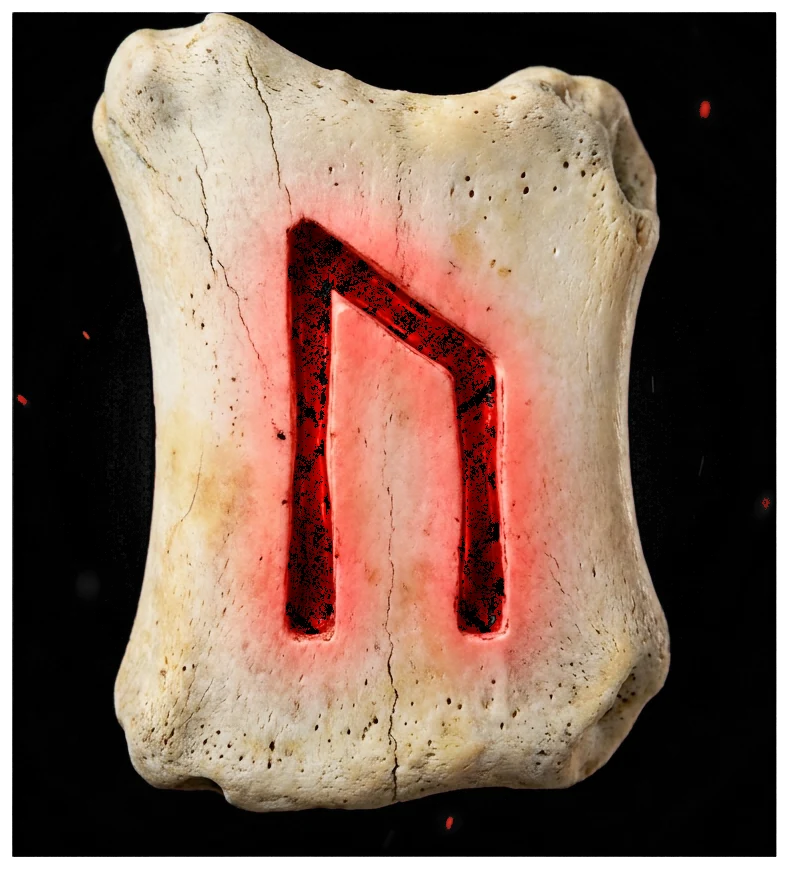
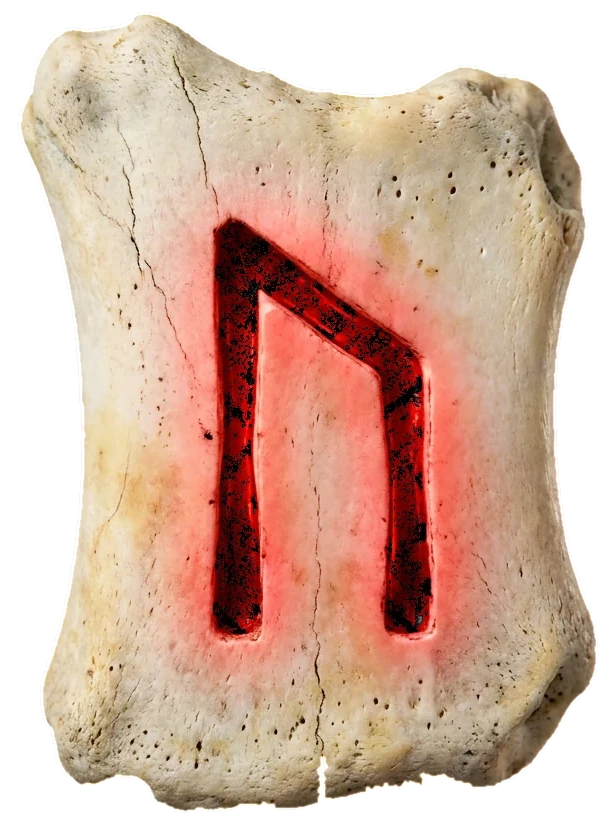
Uruz torna una pietra: chiave di tinta dal bordo, mai distanza RGB
Voce 5 dell'ordine 2161. Misura prima: 94,2 per cento di pixel opachi su
fronte e retro (789x869), contro la mediana 71,4 delle altre ventitre.
Misura dopo: 71,9 su fronte (616x831), retro e miniatura, sulla mediana.

Il metodo vive in tool/pulisci_uruz.py, una porta, coi suoi perche':
allagamento dal bordo sulla tinta del fondo (quasi nero o scintilla
rossa), cosi' il solco rosso interno, irraggiungibile dal bordo, resta;
resta solo la componente opaca piu' grande (le scintille isolate
cadono); pinhole sotto i 400 pixel richiusi, vuoti veri lasciati;
despill dividendo il colore dei semitrasparenti per l'alpha, perche' il
fondale era nero, senza toccare i pixel pieni ne' la venatura; riquadro
stretto alla pietra col 2 per cento di margine, perche' la quota di
opachi si misura sul riquadro e Uruz era stata consegnata con l'aria
attorno. Verificata a occhio su fondo chiaro E su scacchiera.

Il retro rigenerato DALLA pietra pulita con tool/rune_vergini.py 02, la
porta che gia' esisteva: eredita il riquadro stretto e la trasparenza.
La miniatura con le misure della filiera vera (500, qualita' 82).

Il lucchetto di CI, stato_asset_test.dart nel verde, conta file e
percorsi: la sostituzione in loco non lo apre, quindi non c'e' stato
nessuno sblocco e il lucchetto non ha mai smesso di essere chiuso. Ma
contava i file e non i byte, ed e' il buco da cui Uruz e' passata: la
prova nuova test/le_pietre_sono_scontornate_test.dart e' il lucchetto
[…]

diff --git a/test/le_pietre_sono_scontornate_test.dart b/test/le_pietre_sono_scontornate_test.dart
@@ -1,0 +1,104 @@
+import 'dart:io';
+import 'dart:ui' as ui;
+
+import 'package:flutter_test/flutter_test.dart';
+
+/// OGNI PIETRA E' SCONTORNATA DAVVERO, fronte e retro. Ordine 2161, voce 5.
+///
+/// La regressione: Uruz e' arrivata su un fondale nero pieno, 94,2 per cento
+/// di pixel opachi contro la mediana di 71,4 delle altre ventitre, e nessuna
+/// prova e' caduta. Una pietra quadrata in mezzo a pietre scontornate si vede
+/// a occhio, ma l'occhio non e' una guardia: questa prova misura TUTTE le
+/// pietre, cosi' la prossima runa consegnata su un fondale fa cadere il verde
+/// prima di arrivare a video.
+///
+/// Due misure, ciascuna col suo perche':
+/// - il PERIMETRO deve essere quasi tutto trasparente: una pietra vive in
+///   mezzo alla sua aria, un asset squadrato tocca i bordi con pixel pieni;
+/// - la QUOTA DI PIXEL OPACHI di ogni pietra deve stare vicino alla mediana
+///   del mazzo: e' la misura dell'ordine, e la banda dichiarata tiene conto
+///   che le pietre hanno forme diverse (dal 62 all'82 per cento oggi).
+void main() {
+  /// Oltre questa distanza dalla mediana una pietra non e' piu' una forma
+  /// diversa: e' un fondale. Uruz squadrata stava a +22,8 dalla mediana.
+  const bandaDallaMediana = 14.0;
+
+  /// Sul perimetro si tollera solo il rumore di compressione: mezzo punto
+  /// percentuale. Uruz squadrata aveva il perimetro pieno.
+  const perimetroOpacoMassimo = 0.5;
+
+  Future<Map<String, List<double>>> misura(Directory dir) async {
+    final misure = <String, List<double>>{};
+    for (final f in dir.listSync().whereType<File>().toList()
+      ..sort((a, b) => a.path.compareTo(b.path))) {
+      if (!f.path.endsWith('.webp')) continue;
+      final codec = await ui.instantiateImageCodec(f.readAsBytesSync());
+      final img = (await codec.getNextFrame()).image;
+      final dati = (await img.toByteData(format: ui.ImageByteFormat.rawRgba))!;
+      final byte = dati.buffer.asUint8List();
+      final w = img.width, h = img.height;
+      var opachi = 0;
+      var perimetroOpachi = 0;
+      var perimetro = 0;
+      for (var y = 0; y < h; y++) {
+        for (var x = 0; x < w; x++) {
+          final a = byte[(y * w + x) * 4 + 3];
+          final pieno = a >= 128;
+          if (pieno) opachi++;
+          if (y == 0 || y == h - 1 || x == 0 || x == w - 1) {
+            perimetro++;
+            if (pieno) perimetroOpachi++;
+          }
+        }
+      }
+      img.dispose();
+      misure[f.uri.pathSegments.last] = [
+        opachi * 100 / (w * h),
+        perimetroOpachi * 100 / perimetro,
+      ];
+    }
+    return misure;
+  }
+
+  double mediana(List<double> valori) {
+    final v = [...valori]..sort();
+    return v.length.isOdd
+        ? v[v.length ~/ 2]
+        : (v[v.length ~/ 2 - 1] + v[v.length ~/ 2]) / 2;
+  }
+
+  for (final cartella in const [
+    'assets/img/rune_bone',
+    'assets/img/rune_bone_vergine',
+    'assets/img_thumb/rune_bone',
+  ]) {
+    testWidgets('in $cartella nessuna pietra e\' un fondale', (tester) async {
+      await tester.runAsync(() async {
+        final misure = await misura(Directory(cartella));
+        expect(misure.length, 24,
+            reason: 'in $cartella le pietre non sono ventiquattro');
+        final colpe = <String>[];
+        misure.forEach((nome, m) {
+          // La mediana delle ALTRE: la pietra sotto esame non vota su
+          // se stessa, altrimenti un mazzo mezzo squadrato si assolverebbe.
+          final altre = misure.entries
+              .where((e) => e.key != nome)
+              .map((e) => e.value[0])
+              .toList();
+          final med = mediana(altre);
+          if ((m[0] - med).abs() > bandaDallaMediana) {
+            colpe.add('$nome: opachi ${m[0].toStringAsFixed(1)}% contro la '
+                'mediana ${med.toStringAsFixed(1)} delle altre, oltre la '
+                'banda di $bandaDallaMediana');
+          }
+          if (m[1] > perimetroOpacoMassimo) {
+            colpe.add('$nome: perimetro opaco al '
+                '${m[1].toStringAsFixed(1)}%, una pietra scontornata '
+                'non tocca i bordi del suo riquadro');
+          }
+        });
+        expect(colpe, isEmpty, reason: colpe.join('\n'));
+      });
+    });
+  }
+}

diff --git a/tool/pulisci_uruz.py b/tool/pulisci_uruz.py
@@ -1,0 +1,198 @@
+# -*- coding: utf-8 -*-
+"""URUZ TORNA UNA PIETRA, non un quadrato nero. Ordine 2161, voce 5.
+
+**Il difetto.** Uruz e' stata consegnata su un fondale nero pieno, con
+scintille rosse sparse: 94,2 per cento di pixel opachi contro la mediana di
+71,4 delle altre ventitre. A video e' un quadrato coi bordi neri in mezzo a
+pietre scontornate.
+
+**Il metodo, a chiave di tinta e MAI per distanza RGB.** La distanza RGB da un
+campione mangia tutto cio' che somiglia al campione ovunque stia, e qui
+l'incisione rossa in ombra somiglia al fondo nero: sparirebbe il solco. La
+chiave di tinta invece riconosce il fondo per la sua natura (quasi nero, o
+scintilla rossa su nero) e lo raggiunge SOLO dal bordo, per allagamento: cio'
+che sta dentro la pietra, solco compreso, non e' raggiungibile dal bordo e
+resta intatto.
+
+I passi, ciascuno col suo perche':
+1. allagamento dal bordo sui pixel del fondo (tinta quasi nera V<70, oppure
+   scintilla rossa R dominante): via l'alpha;
+2. resta solo la componente opaca PIU' GRANDE: le scintille circondate dal
+   nero non sono raggiunte a tinta ma restano isole, e un'isola non e' pietra;
+3. pinhole piccoli (sotto 400 pixel) richiusi col pixel originale: sono buchi
+   del keying, non vuoti veri; i vuoti veri, piu' grandi, restano trasparenti;
+4. despill sul bordo: un'erosione di un pixel e una sfumatura, poi il colore
+   dei pixel semitrasparenti si divide per l'alpha (il fondale era nero,
+   quindi il colore osservato e' il colore vero moltiplicato per l'alpha):
+   cosi' il filo nero residuo se ne va SENZA toccare i pixel pieni, cioe'
+   senza mangiare la venatura;
+5. verifica A OCCHIO su fondo chiaro E su scacchiera, mai solo sul nero: i
+   compositi si scrivono nello scratchpad e vanno guardati.
+
+Il retro NON si tocca qui: si rigenera con `tool/rune_vergini.py 02` DALLA
+pietra pulita, perche' il retro nasce dalla runa incisa e ne eredita i
+difetti. La miniatura si rigenera con le stesse misure di `converti_webp.py`
+(lato lungo 500, qualita' 82).
+
+Uso: python tool/pulisci_uruz.py
+"""
+
+import os
+import sys
+from collections import deque
+
+import numpy as np
+from PIL import Image, ImageFilter
+
+BASE = os.path.dirname(os.path.dirname(os.path.abspath(__file__)))
+FRONTE = os.path.join(BASE, 'assets', 'img', 'rune_bone',
+                      'rune_bone_02_uruz_v1.webp')
+THUMB = os.path.join(BASE, 'assets', 'img_thumb', 'rune_bone',
+                     'rune_bone_02_uruz_v1.webp')
+# Le stesse misure della filiera vera, tool/converti_webp.py: cambiarle qui
+# farebbe di Uruz una miniatura d'un altro mazzo.
+QUALITY = 88
+THUMB_LONG = 500
+THUMB_QUALITY = 82
+# Sotto questa superficie un buco e' un pinhole del keying e un'isola e' una
+# scintilla: 400 pixel su un'immagine di 685 mila sono lo 0,06 per cento.
+BRICIOLA = 400
+
+
+def componenti(maschera):
+    """Le componenti connesse di una maschera booleana, per allagamento."""
+    h, w = maschera.shape
+    viste = np.zeros((h, w), dtype=bool)
+    trovate = []
+    for y0 in range(h):
+        for x0 in range(w):
+            if not maschera[y0, x0] or viste[y0, x0]:
+                continue
+            coda = deque([(y0, x0)])
+            viste[y0, x0] = True
+            punti = []
+            while coda:
+                y, x = coda.popleft()
+                punti.append((y, x))
+                for ny, nx in ((y-1, x), (y+1, x), (y, x-1), (y, x+1)):
+                    if 0 <= ny < h and 0 <= nx < w and \
+                            maschera[ny, nx] and not viste[ny, nx]:
+                        viste[ny, nx] = True
+                        coda.append((ny, nx))
+            trovate.append(punti)
+    return trovate
+
+
+def main():
+    im = Image.open(FRONTE).convert('RGBA')
+    arr = np.array(im)
+    h, w = arr.shape[:2]
+    r = arr[..., 0].astype(int)
+    g = arr[..., 1].astype(int)
+    b = arr[..., 2].astype(int)
+    v = np.maximum(np.maximum(r, g), b)
+
+    # LA TINTA DEL FONDO: quasi nero, oppure scintilla rossa su nero.
+    fondo_di_tinta = (v < 70) | ((r >= 70) & (g < 60) & (b < 60))
+
+    # 1. L'ALLAGAMENTO DAL BORDO: solo il fondo raggiungibile da fuori.
+    raggiunto = np.zeros((h, w), dtype=bool)
+    coda = deque()
+    for x in range(w):
+        for y in (0, h - 1):
+            if fondo_di_tinta[y, x] and not raggiunto[y, x]:
+                raggiunto[y, x] = True
+                coda.append((y, x))
+    for y in range(h):
+        for x in (0, w - 1):
+            if fondo_di_tinta[y, x] and not raggiunto[y, x]:
+                raggiunto[y, x] = True
+                coda.append((y, x))
+    while coda:
+        y, x = coda.popleft()
+        for ny, nx in ((y-1, x), (y+1, x), (y, x-1), (y, x+1)):
+            if 0 <= ny < h and 0 <= nx < w and \
+                    fondo_di_tinta[ny, nx] and not raggiunto[ny, nx]:
+                raggiunto[ny, nx] = True
+                coda.append((ny, nx))
+    alpha = arr[..., 3].copy()
+    alpha[raggiunto] = 0
+
+    # 2. RESTA LA PIETRA: la componente opaca piu' grande. Le scintille
+    # rimaste isole cadono qui, qualunque colore avessero.
+    opaco = alpha > 0
+    parti = componenti(opaco)
+    parti.sort(key=len, reverse=True)
+    for parte in parti[1:]:
+        for y, x in parte:
+            alpha[y, x] = 0
+
+    # 3. I PINHOLE SI RICHIUDONO, i vuoti veri no.
+    trasparente = alpha == 0
+    for parte in componenti(trasparente):
+        tocca_bordo = any(y in (0, h-1) or x in (0, w-1) for y, x in parte)
+        if not tocca_bordo and len(parte) < BRICIOLA:
+            for y, x in parte:
+                alpha[y, x] = 255
+
+    # 4. IL DESPILL DEL BORDO: erosione di un pixel, sfumatura, e il colore
+    # dei semitrasparenti diviso per l'alpha, perche' il fondale era nero.
+    im_a = Image.fromarray(alpha, mode='L')
+    im_a = im_a.filter(ImageFilter.MinFilter(3))
+    im_a = im_a.filter(ImageFilter.GaussianBlur(1.0))
+    alpha = np.array(im_a)
+    semi = (alpha > 0) & (alpha < 250)
+    fattore = np.ones((h, w))
+    fattore[semi] = 255.0 / np.maximum(alpha[semi], 64)
+    for c in range(3):
+        canale = arr[..., c].astype(float) * fattore
+        arr[..., c] = np.clip(canale, 0, 255).astype(np.uint8)
+    arr[..., 3] = alpha
+    arr[alpha == 0] = 0
+
+    # IL RIQUADRO SI STRINGE ALLA PIETRA, come nelle sorelle: Uruz era stata
+    # consegnata con molta aria attorno, e la quota di pixel opachi si misura
+    # sul riquadro. Senza questo passo la pietra pulita restava lontana dalla
+    # mediana non per il fondale, ma per l'aria. Margine del 2 per cento.
+    fuori = Image.fromarray(arr, mode='RGBA')
+    bbox = fuori.getbbox()
+    if bbox is not None:
+        margine = round(max(fuori.size) * 0.02)
+        x0 = max(0, bbox[0] - margine)
+        y0 = max(0, bbox[1] - margine)
+        x1 = min(fuori.width, bbox[2] + margine)
+        y1 = min(fuori.height, bbox[3] + margine)
+        fuori = fuori.crop((x0, y0, x1, y1))
+    fuori.save(FRONTE, 'WEBP', quality=QUALITY, method=6)
+
+    # LA MINIATURA, con le misure della filiera vera.
+    mini = fuori.copy()
+    lung = max(mini.size)
+    if lung > THUMB_LONG:
+        scala = THUMB_LONG / lung
+        mini = mini.resize((round(mini.width * scala),
+                            round(mini.height * scala)), Image.LANCZOS)
+    mini.save(THUMB, 'WEBP', quality=THUMB_QUALITY, method=6)
+
+    # 5. I COMPOSITI DA GUARDARE: fondo chiaro e scacchiera, mai solo nero.
+    scratch = sys.argv[1] if len(sys.argv) > 1 else BASE
+    chiaro = Image.new('RGBA', fuori.size, (235, 231, 222, 255))
+    chiaro.alpha_composite(fuori)
+    chiaro.convert('RGB').save(os.path.join(scratch, 'uruz_su_chiaro.png'))
+    scacchi = Image.new('RGBA', fuori.size, (255, 255, 255, 255))
+    passo = 32
+    for y in range(0, fuori.height, passo):
+        for x in range(0, fuori.width, passo):
+            if (x // passo + y // passo) % 2:
+                for yy in range(y, min(y + passo, fuori.height)):
+                    for xx in range(x, min(x + passo, fuori.width)):
+                        scacchi.putpixel((xx, yy), (190, 190, 190, 255))
+    scacchi.alpha_composite(fuori)
+    scacchi.convert('RGB').save(os.path.join(scratch, 'uruz_su_scacchi.png'))
+
+    op = (np.array(fuori)[..., 3] >= 128).mean() * 100
+    print(f'fronte: {fuori.size} opachi {op:.1f}%')
+
+
+if __name__ == '__main__':
+    main()
